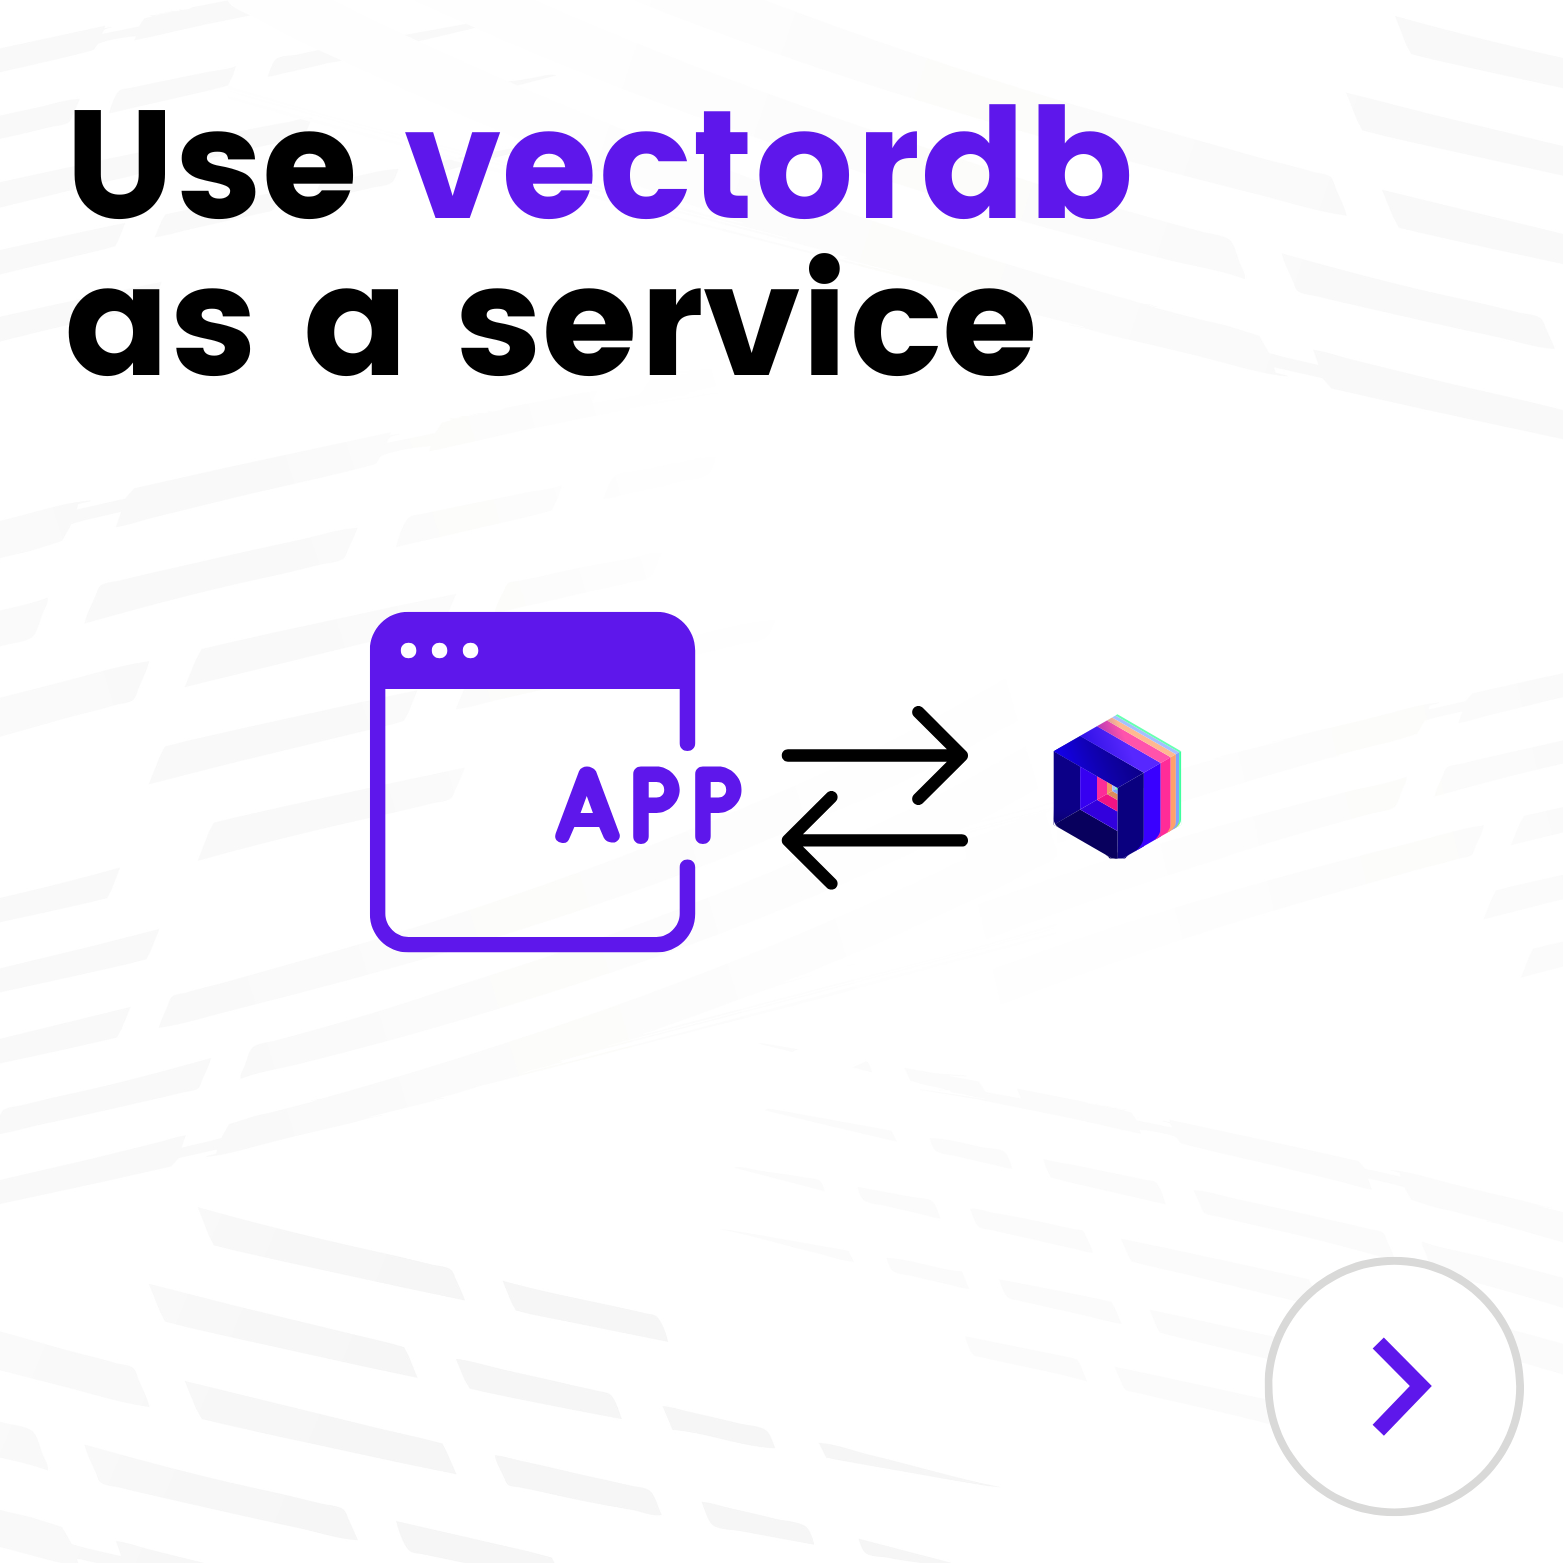
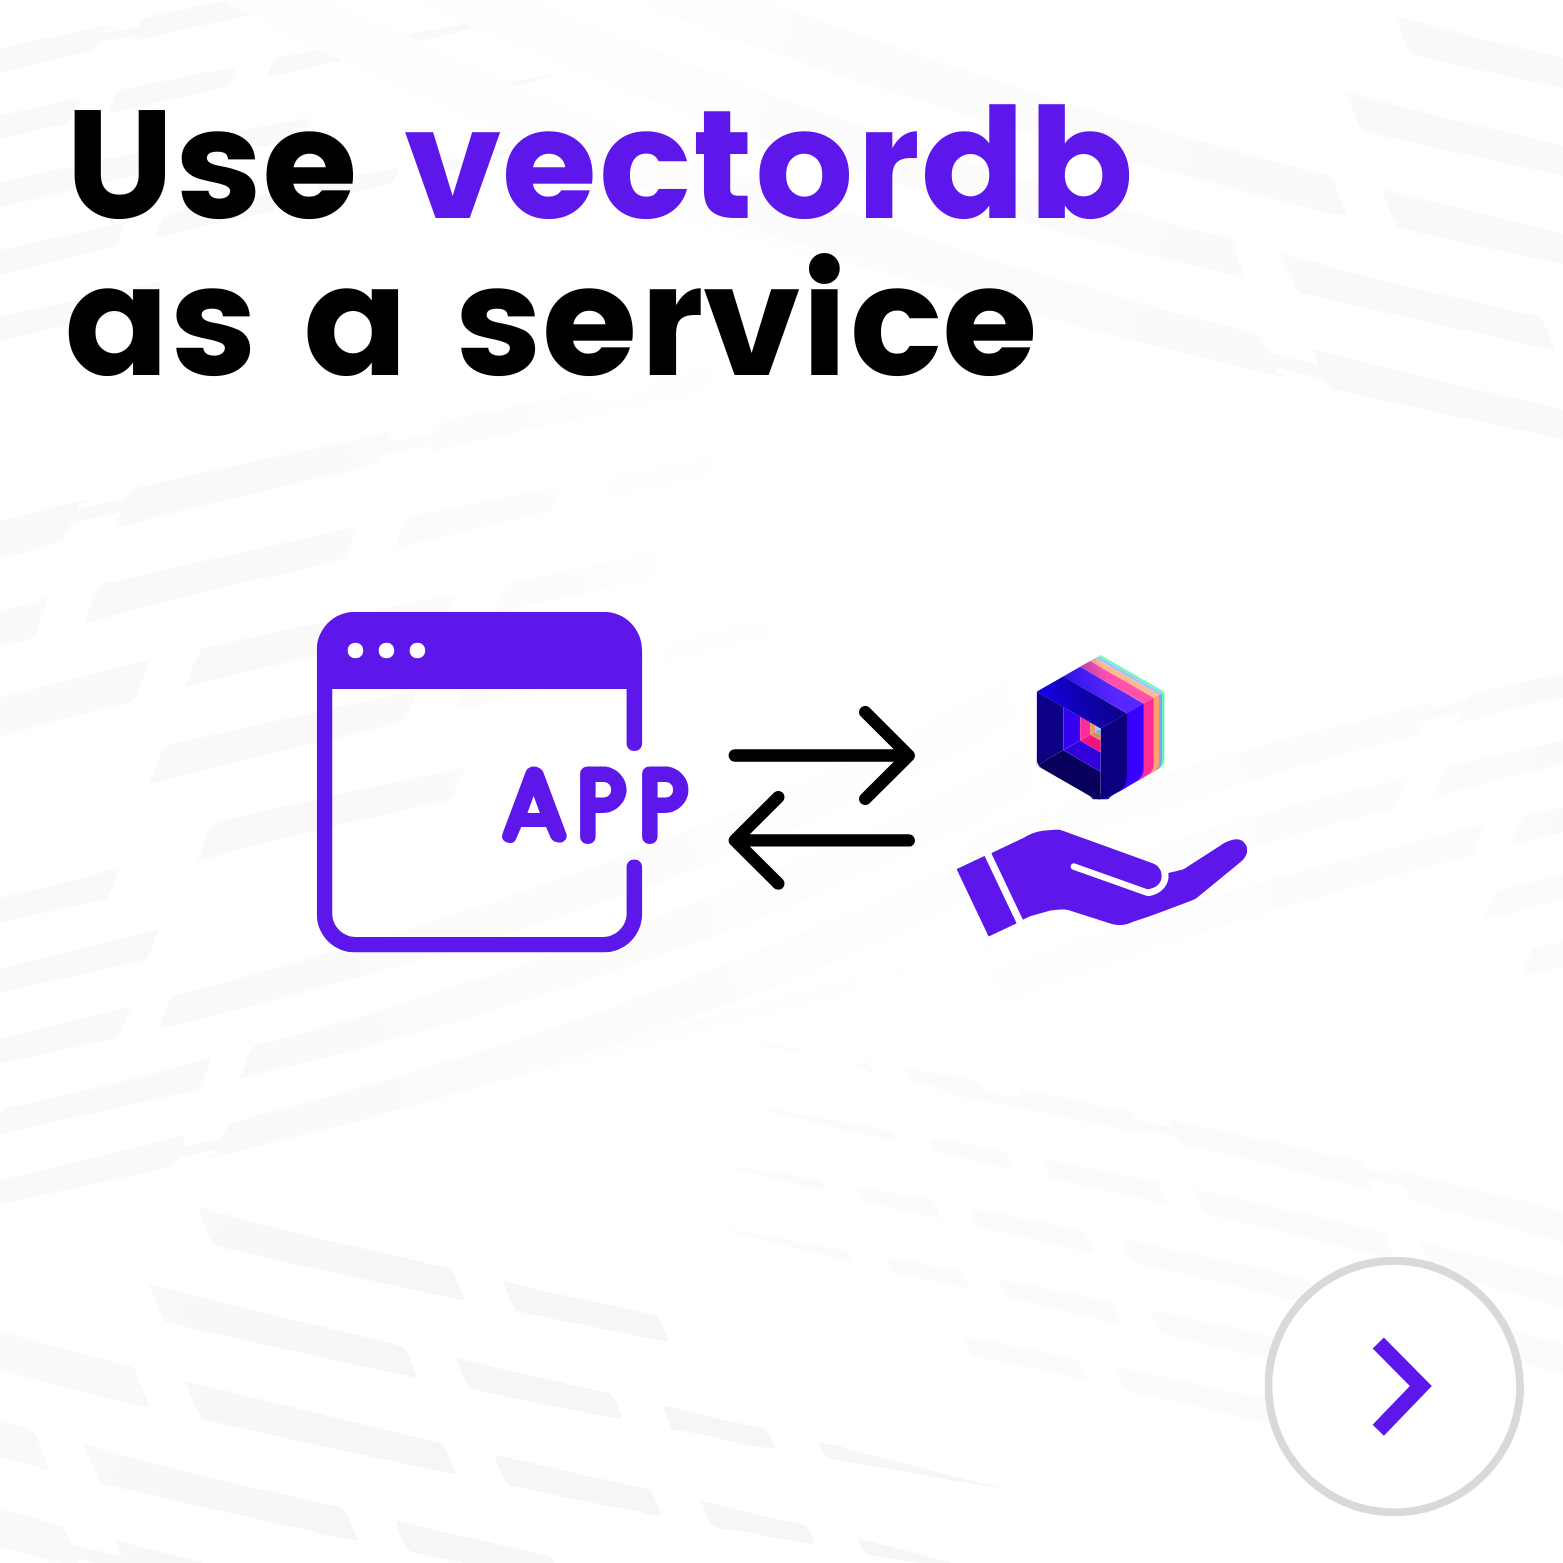
chore: update readme

Changed region(s): [[0.3071, 0.3685, 0.7985, 0.6142], [0.1843, 0.3685, 0.3071, 0.6142]]

diff --git a/README.md b/README.md
@@ -45,12 +45,12 @@ pip install vectordb
     </td>
     <td>
       <a href="#running-vectordb-as-a-service">
-        <img src="https://github.com/jina-ai/vectordb/blob/main/.github%2Fimages%2Fguide-1.png?raw=true" alt="Use vectordb from Jina AI as a service" width="100%">
+        <img src="https://github.com/jina-ai/vectordb/blob/main/.github%2Fimages%2Fguide-2.png?raw=true" alt="Use vectordb from Jina AI as a service" width="100%">
       </a>
     </td>
     <td>
       <a href="#hosting-vectordb-on-jina-ai-cloud">
-        <img src="https://github.com/jina-ai/vectordb/blob/main/.github%2Fimages%2Fguide-1.png?raw=true" alt="Use vectordb from Jina AI on Jina AI Cloud" width="100%">
+        <img src="https://github.com/jina-ai/vectordb/blob/main/.github%2Fimages%2Fguide-3.png?raw=true" alt="Use vectordb from Jina AI on Jina AI Cloud" width="100%">
       </a>
     </td>
   </tr>
